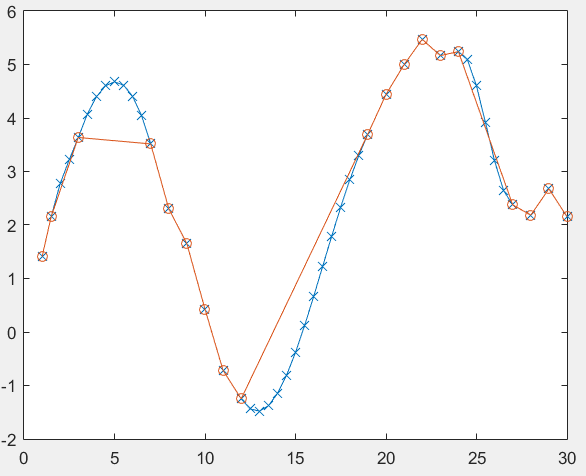
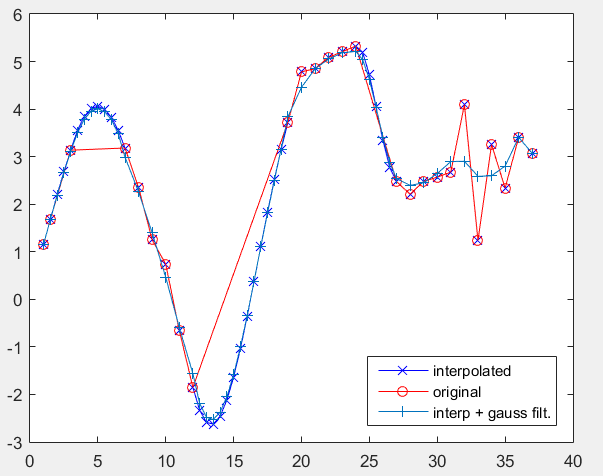
Added gaussian filter
Added gaussian filter

diff --git a/Matlab_demo_code/TrajectoryInterpolation.m b/Matlab_demo_code/TrajectoryInterpolation.m
@@ -1,7 +1,7 @@
 clear all;
 
-xOrig = [1,1.5,3,7,8,9,10,11,12,19,20,21,22,23,24,27,28,29,30];
-yOrig = [1,1.5,3,3,2,1,0,-1,-2,3,4,4.5, 5, 5, 5, 2, 2, 2, 2];
+xOrig = [1,1.5,3,7,8,9,10,11,12,19,20,21,22,23,24,27,28,29,30,31,32,33,34,35,36,37];
+yOrig = [1,1.5,3,3,2,1,0,-1,-2,3,4,4.5, 5, 5, 5, 2, 2, 2, 2, 2.5, 4, 1, 3, 2, 3, 3];
 
 %xOrig = [0.5,1,2,3,4,8,9,10,11];
 %yOrig = [0.5,1,3,5,7,33,30,27,24];
@@ -15,7 +15,7 @@ yOrig = [1,1.5,3,3,2,1,0,-1,-2,3,4,4.5, 5, 5, 5, 2, 2, 2, 2];
 
 %add noise to data
 for i = 1:size(xOrig,2)
-    yOrig(i) = yOrig(i) + rand()*1.5;
+    yOrig(i) = yOrig(i) + rand()*0.8;
 end
 
 x = xOrig;
@@ -42,7 +42,7 @@ disp('starting interpolation search ')
 
 %start looking for larger gaps first and then reduce the gap threshold per
 %eac cycle
-for k = linspace(5,1,3)
+for k = linspace(5,2,3)
     for i = 1:(size(x,2)-1)
         fprintf('  i=%d \n', i)
         diff = x(i+1)-x(i);
@@ -113,17 +113,42 @@ for k = linspace(5,1,3)
     xn = [];
     yn = [];
 end
-    
+
+% Gaussian filtering
+gaussFilter = [0.06136,	0.24477, 0.38774, 0.24477, 0.06136];
+kernelcheck = sum(gaussFilter)
+startIndex = floor(size(gaussFilter,2)/2) + 1
+
+xg = x;
+yg = [y(1), y(2)]
+
+for i = 3:(size(x,2)-2)
+    fprintf('i=%d \n', i);
+    filtered = 0;
+    for j = 1:size(gaussFilter,2)
+        filtered = filtered + gaussFilter(j)*y(i - startIndex + j);
+    end
+    yg = [yg, filtered]
+end
+
+yg = [yg, y(size(x,2) - 1), y(size(x,2))];
+
 fprintf('size of xOrig=%d \n', size(xOrig,2));
 fprintf('size of yOrig=%d \n' , size(yOrig,2));
 
-fprintf('size of xn=%d \n', size(xn,2));
-fprintf('size of yn=%d \n' , size(yn,2));
+fprintf('size of x=%d \n', size(x,2));
+fprintf('size of y=%d \n' , size(y,2));
 
-plot(x, y, '-x')
-hold
-plot(xOrig, yOrig, '-o')
+fprintf('size of xg=%d \n', size(xg,2));
+fprintf('size of yg=%d \n' , size(yg,2));
 
+plot(x, y, '-xb')
+hold on;
+plot(xOrig, yOrig, '-or')
+hold on;
+plot(xg, yg, '-+')
+
+legend('interpolated','original','interp + gauss filt.','Location','southeast')
 
  
     
